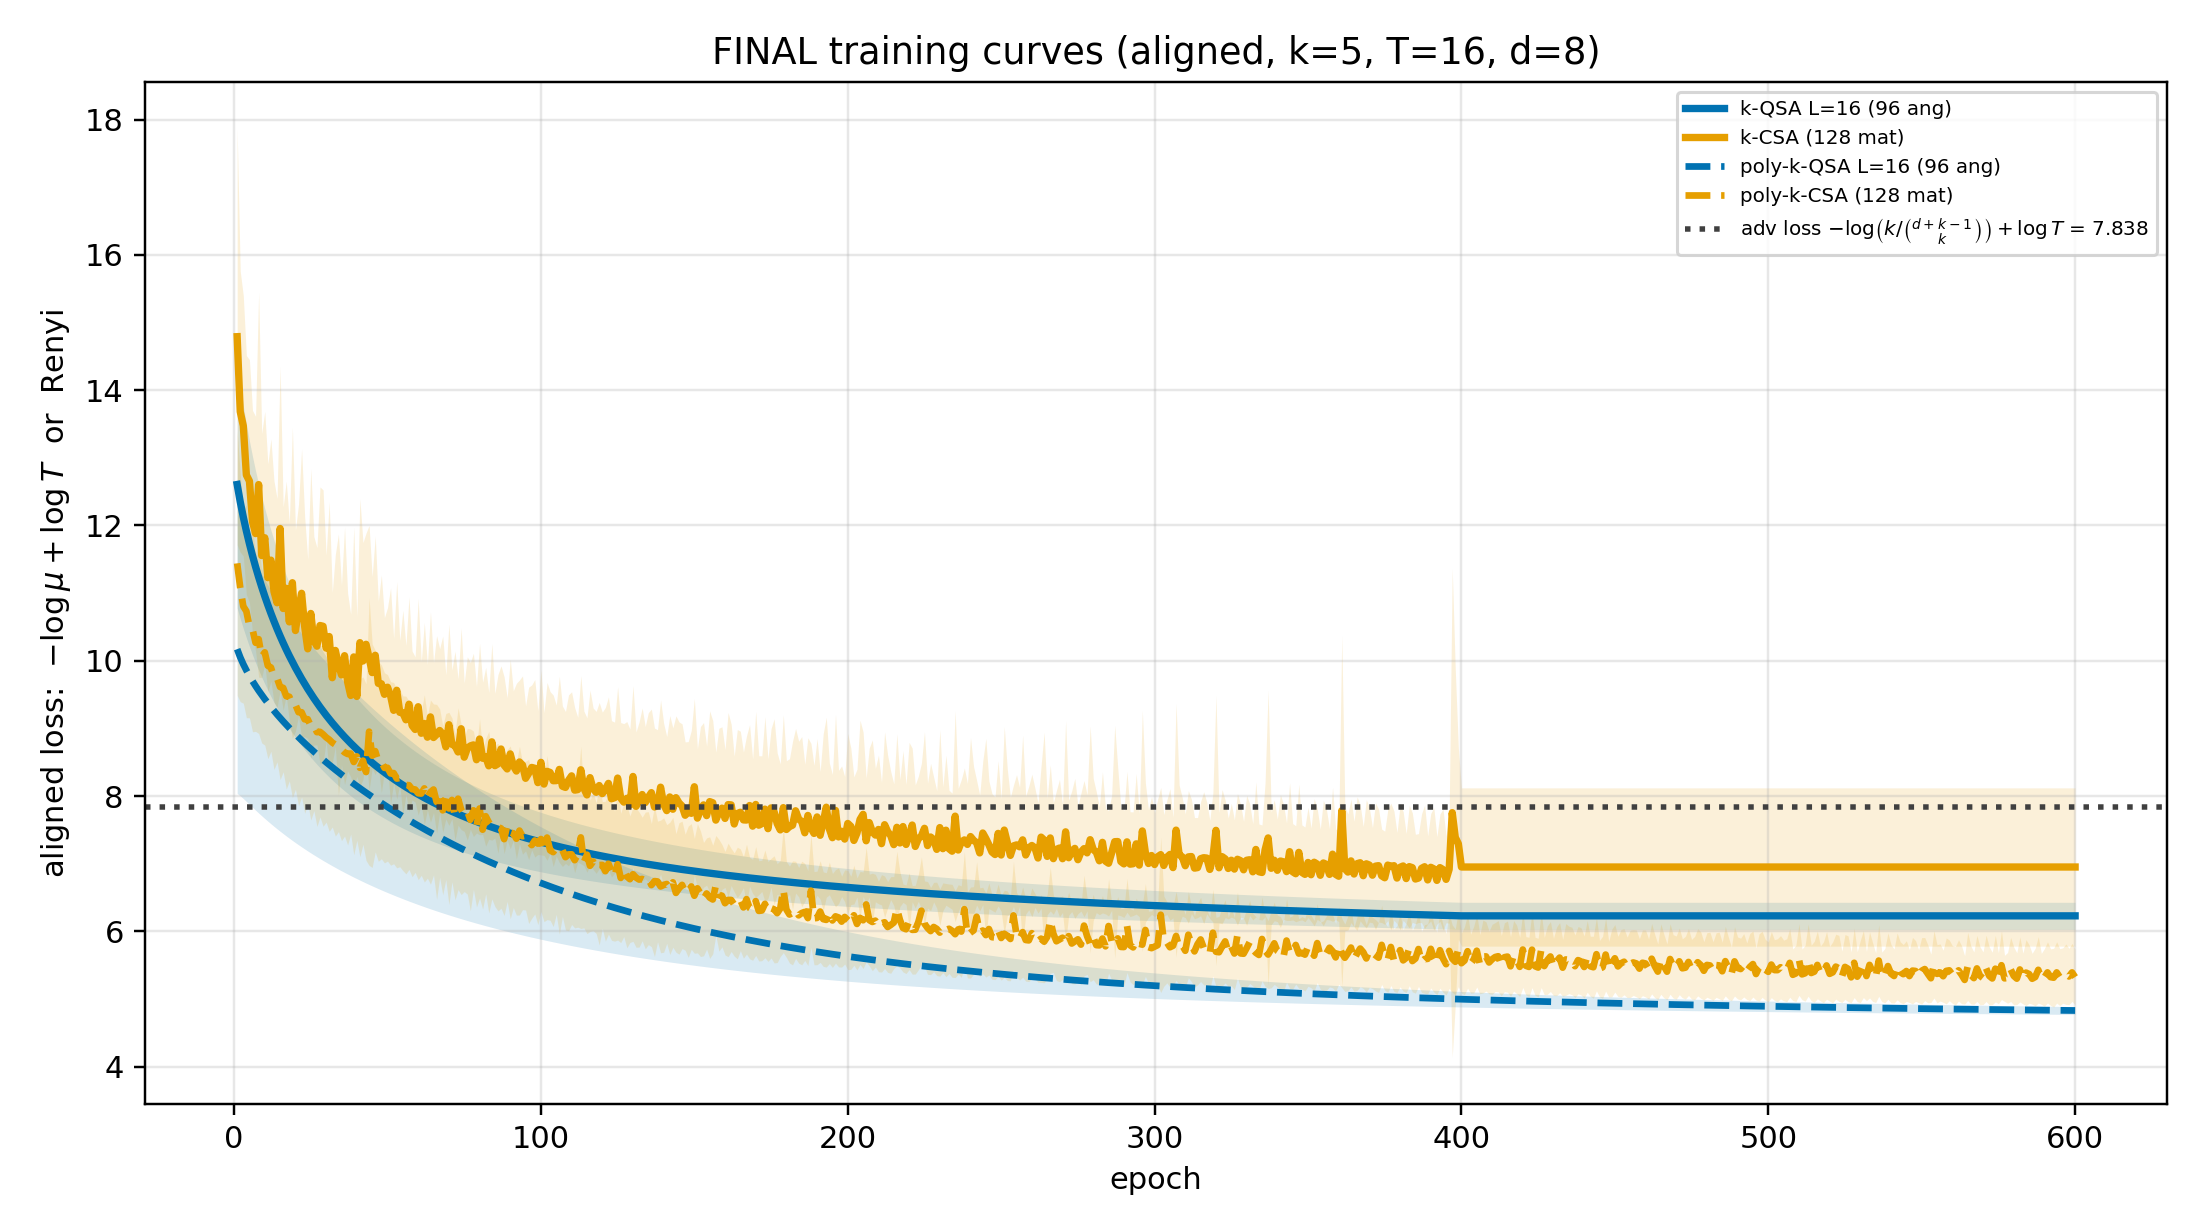
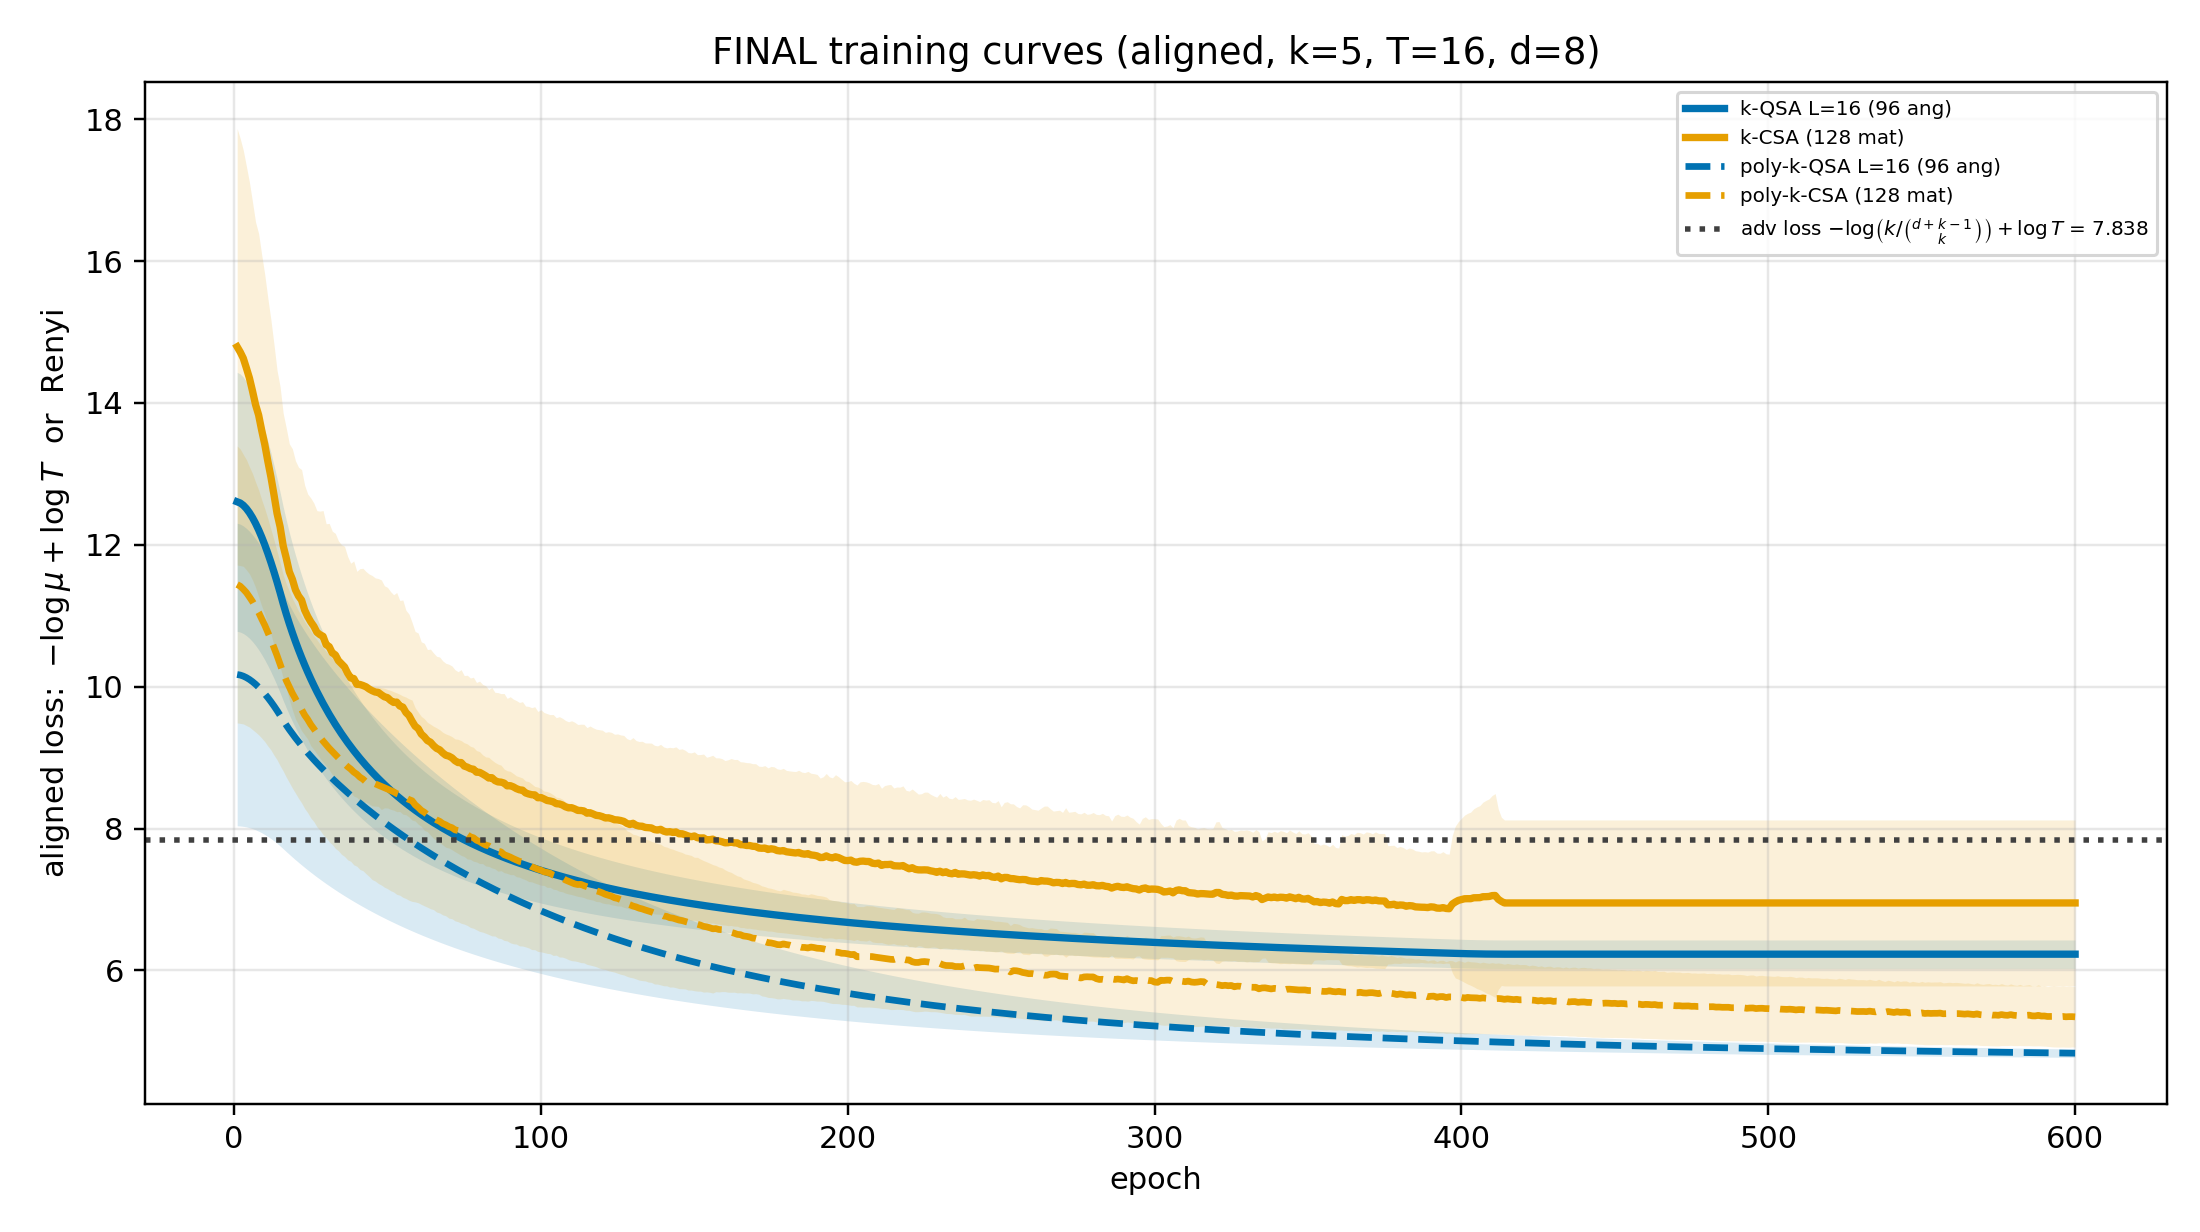
Cosmetic plot fixes: envelope for nl-CSA, smooth training curves, mu log-y, mu_vs_T k=2,5 only.
- nl-CSA: remove edge errorbar, keep envelope (shaded band) only
- Training curves: smooth mean with 15-epoch moving average
- mu_vs_d: log scale on y-axis
- mu_vs_T: only k=2 and k=5 for readability

diff --git a/run_final_loss.py b/run_final_loss.py
@@ -457,19 +457,8 @@ def plot_aligned_vs_k(
             color=st["color"],
             linestyle=st["linestyle"],
             linewidth=st.get("linewidth", 2.0),
-            label=f"{label} (k-indep., mean±std seeds)",
+            label=f"{label} (k-indep., envelope=seed std)",
         )
-        if std > 0:
-            ax.errorbar(
-                [x1],
-                [mean],
-                yerr=[std],
-                color=st["color"],
-                fmt="none",
-                capsize=5,
-                linewidth=1.5,
-                zorder=5,
-            )
     ax.axhline(math.log(T), color="0.55", linestyle=":", linewidth=1.0, alpha=0.7, label=rf"$\log T$={math.log(T):.2f}")
     ax.set_xlabel("k")
     ax.set_ylabel(r"aligned loss:  $-\log\mu+\log T$  or  Renyi")
@@ -502,6 +491,15 @@ def plot_final_curves(
     max_len = 0
     for a in aggs:
         max_len = max(max_len, len(np.asarray(a.get(ykey, a["loss_history"]), dtype=float)))
+
+    def _smooth(y: np.ndarray, win: int = 15) -> np.ndarray:
+        if len(y) < win:
+            return y
+        kernel = np.ones(win) / win
+        # causal convolution, pad with first value
+        padded = np.concatenate([np.full(win - 1, y[0]), y])
+        return np.convolve(padded, kernel, mode="valid")
+
     for a in aggs:
         name = a["model"]
         st = STYLES.get(name, dict(color="0.3", linestyle="-", marker=None, linewidth=2))
@@ -510,13 +508,15 @@ def plot_final_curves(
             ys = np.concatenate([ys, np.full(max_len - len(ys), ys[-1], dtype=float)])
         xs = np.arange(1, len(ys) + 1)
         label = param_labels.get(name, name)
-        ax.plot(xs, ys, label=label, **{k: st[k] for k in ("color", "linestyle", "linewidth")})
+        ys_plot = _smooth(ys)
+        ax.plot(xs, ys_plot, label=label, **{k: st[k] for k in ("color", "linestyle", "linewidth")})
         std_key = "aligned_std" if ykey.startswith("aligned") else "loss_std"
         if std_key in a and int(a.get("n_seeds", 1)) > 1:
             std = np.asarray(a[std_key], dtype=float)
             if max_len > len(std) and len(std) > 0:
                 std = np.concatenate([std, np.full(max_len - len(std), std[-1], dtype=float)])
-            ax.fill_between(xs, ys - std, ys + std, color=st["color"], alpha=0.15, linewidth=0)
+            std_s = _smooth(std)
+            ax.fill_between(xs, ys_plot - std_s, ys_plot + std_s, color=st["color"], alpha=0.15, linewidth=0)
     ax.set_xlabel("epoch")
     ax.set_ylabel(r"aligned loss:  $-\log\mu+\log T$  or  Renyi")
     if title:

diff --git a/run_study.py b/run_study.py
@@ -583,9 +583,10 @@ def _plot_final_mu_panels(
     mu_ks: list[int],
 ) -> None:
     """Professor revision: plot mu (not obar) with multi-seed error bars."""
-    # ---------- mu vs T (d=16), same color per k, style by curve type ----------
+    # ---------- mu vs T (d=16), only k=2,5 for readability ----------
     fig, ax = plt.subplots(figsize=(9.4, 5.6))
-    for i, k in enumerate(mu_ks):
+    mu_ks_T = [k for k in (2, 5) if k in set(mu_ks)]
+    for i, k in enumerate(mu_ks_T):
         color = _DATA_COLORS[i % len(_DATA_COLORS)]
         pts_mono = sorted(
             [
@@ -666,10 +667,11 @@ def _plot_final_mu_panels(
             ys = [float(r["mu_mean"]) for r in pts_poly]
             es = [float(r["mu_std"]) for r in pts_poly]
             ax.errorbar(ds, ys, yerr=es, color=color, marker="s", linestyle="--", linewidth=2.0, capsize=4, label=f"k={k} poly")
+    ax.set_yscale("log")
     ax.set_xlabel("d")
-    ax.set_ylabel(r"$\mu$  (mean $\pm$ std over seeds)")
+    ax.set_ylabel(r"$\mu$  (mean $\pm$ std over seeds, log scale)")
     ax.set_title(rf"$\mu$ vs $d$  (T={max_T})")
-    ax.grid(True, alpha=0.3)
+    ax.grid(True, alpha=0.3, which="both")
     ax.legend(fontsize=7, loc="best")
     fig.tight_layout()
     fig.savefig(out_root / "mu_vs_d.png", dpi=220)
